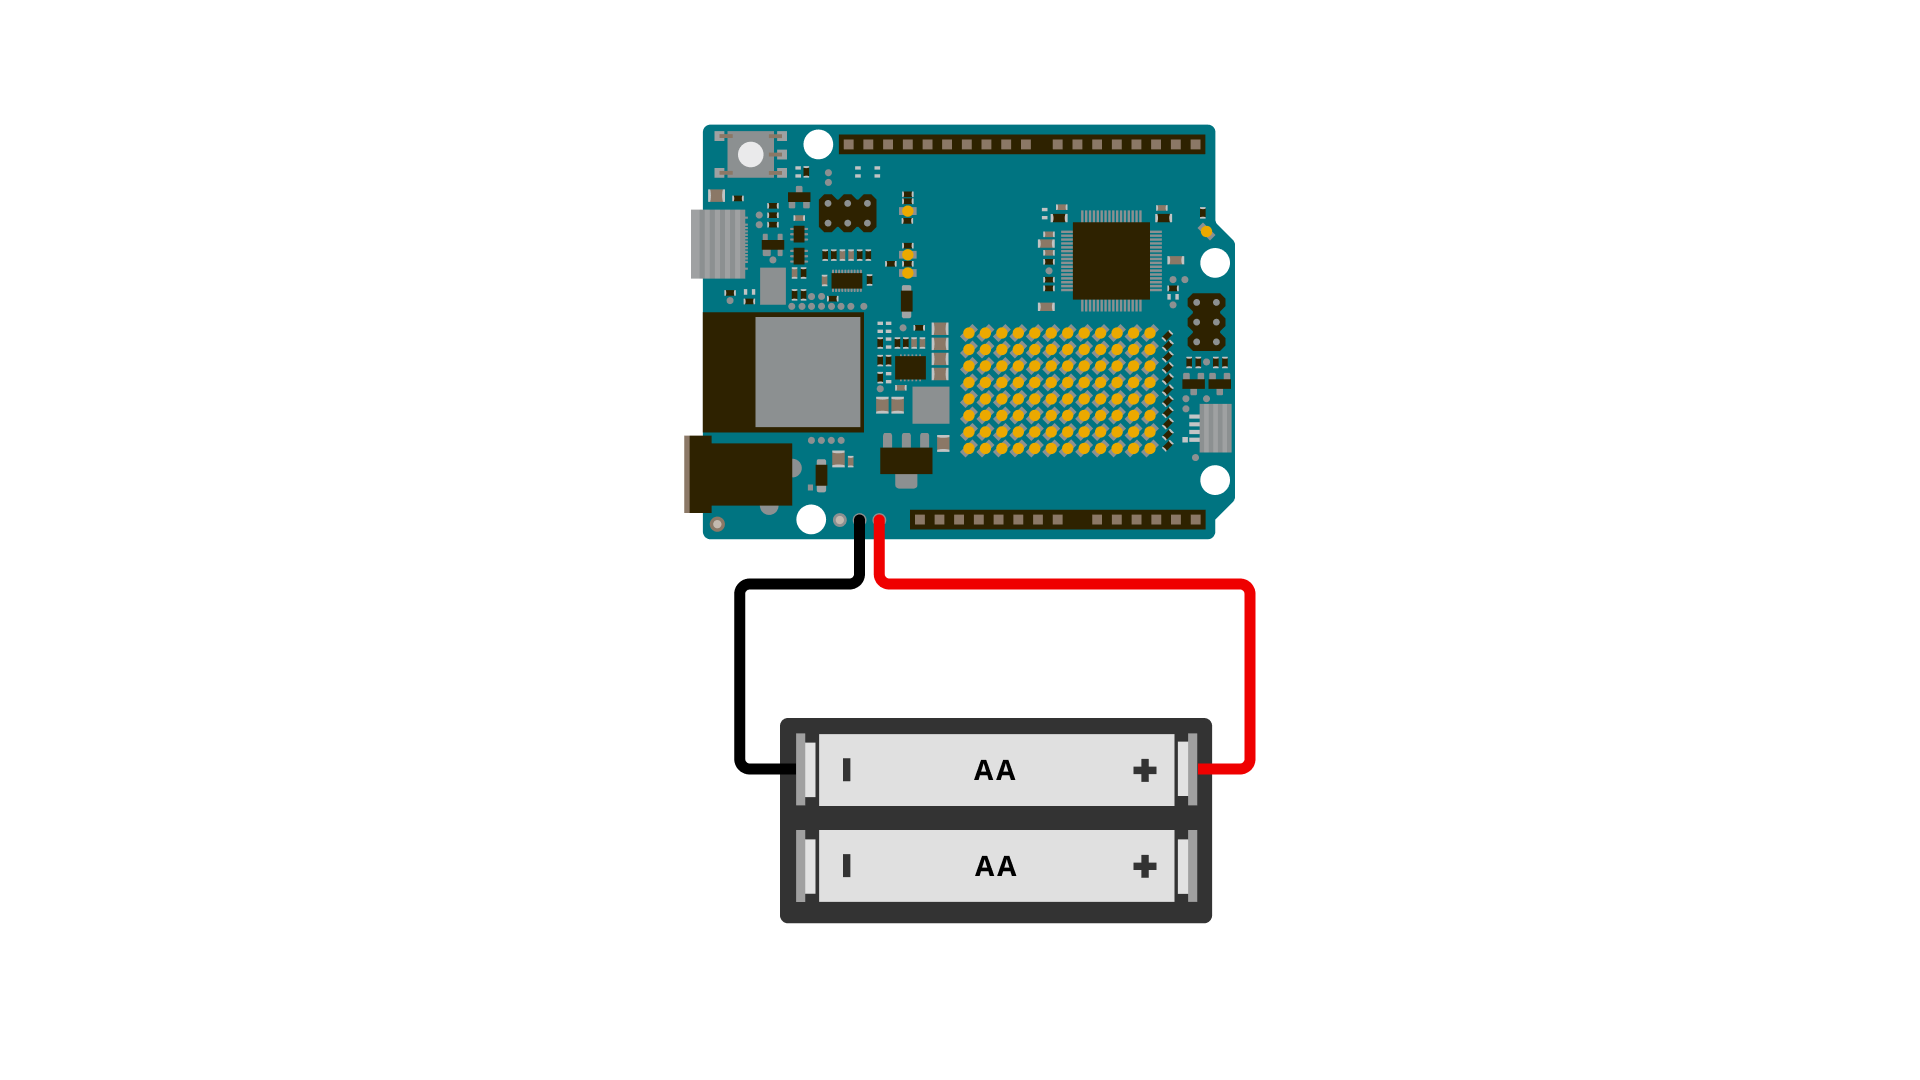
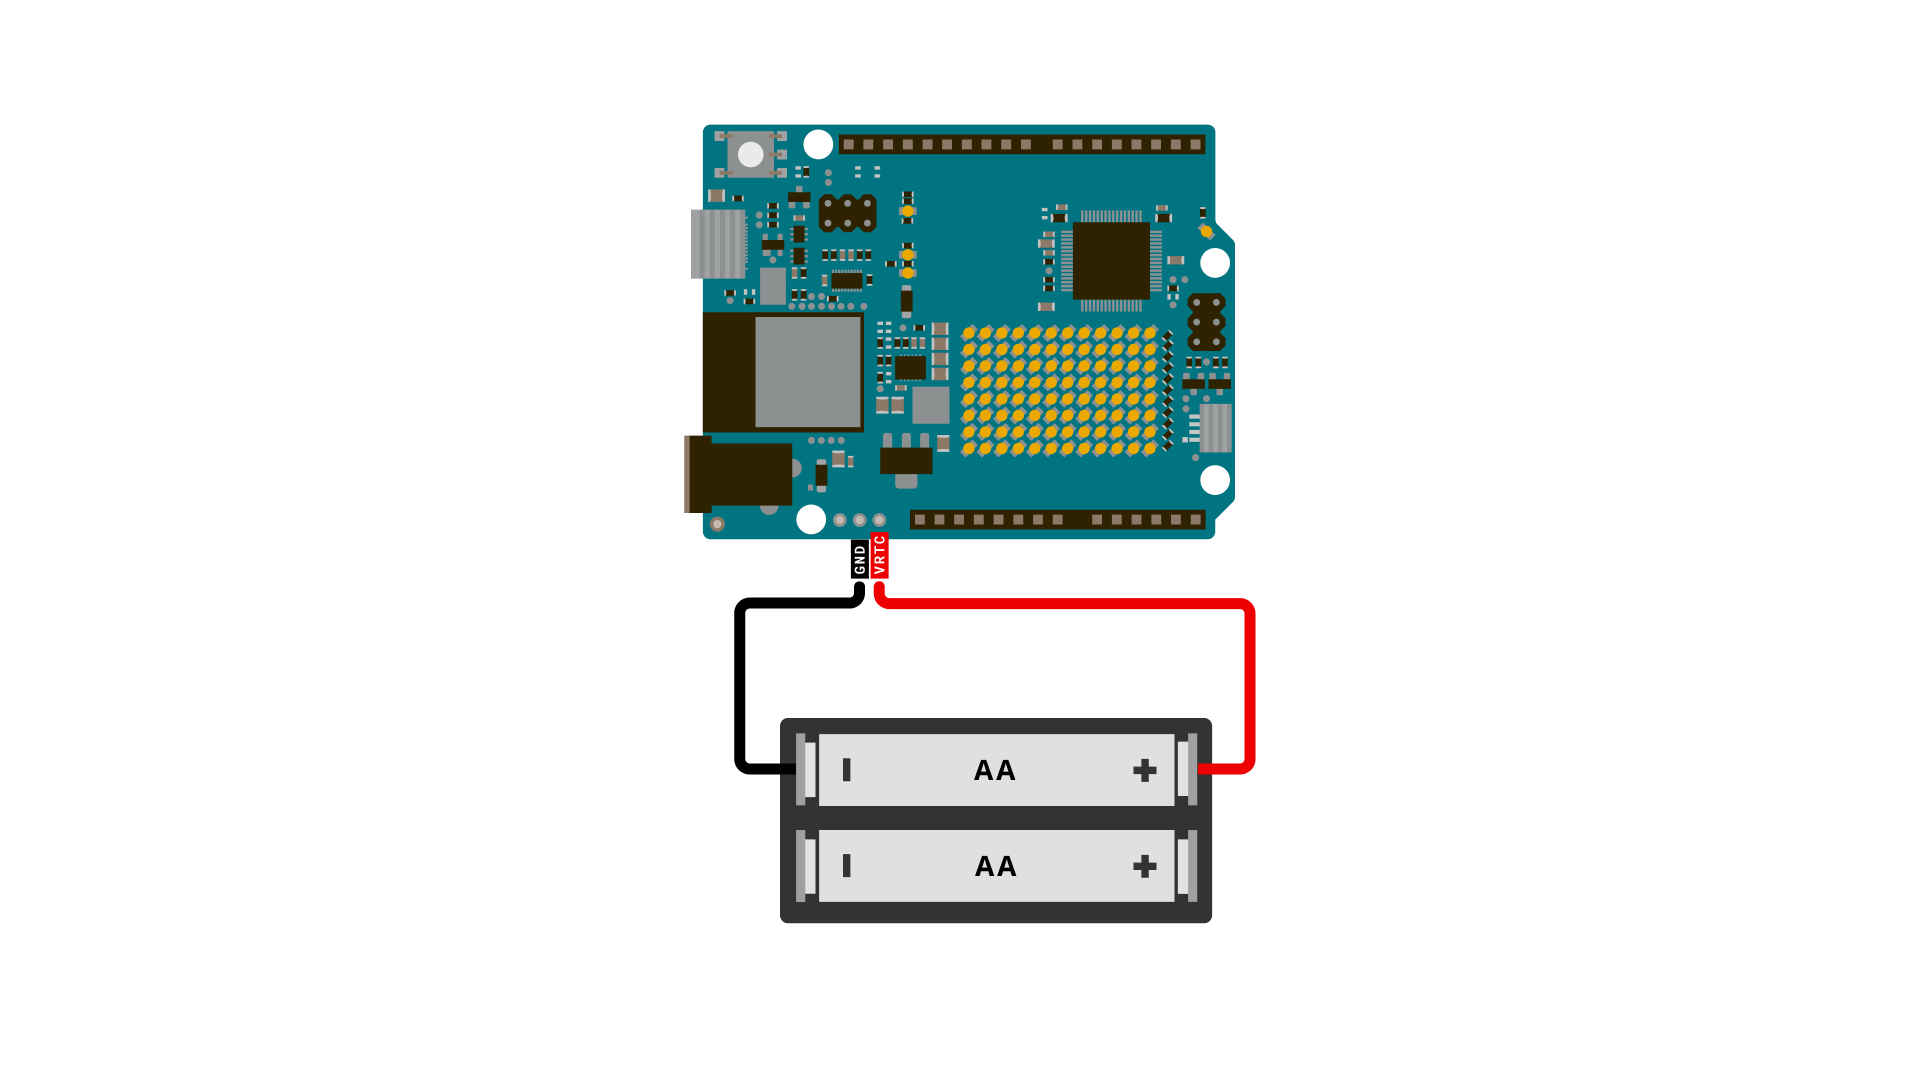
Circuit diagrams

Changed region(s): [[0.375, 0.4583, 0.6562, 0.5806]]

diff --git a/content/hardware/02.hero/boards/uno-r4-wifi/tutorials/vrtc-off/vrtc-off.md b/content/hardware/02.hero/boards/uno-r4-wifi/tutorials/vrtc-off/vrtc-off.md
@@ -42,7 +42,9 @@ The OFF pin on the Arduino UNO R4 WiFi board lets you turn the boards onboard 5 
 
 However, it will only turn off the board when it is powered through the VIN pin, or the barrel jack. Why is this? Because by using this pin, you are turning off the step down converter that generates 5 V from whatever voltage you are providing it with. If you are powering the board from USB, 5 V is provided from the USB cable, and there is no need for this step down converter to begin with. 
 
-To use the OFF pin, all you need to do is to create a short circuit from it to a GND connection. To experiment, you can do this with a jumper cable, but for your finished projects you may want to incorporate a button or switch that will turn the board on or off in this way.
+To use the OFF pin, all you need to do is to create a short circuit from it to a GND connection, like in the diagram below. To experiment, you can do this with a jumper cable, but for your finished projects you may want to incorporate a button or switch that will turn the board on or off in this way.
+
+![OFF Pin Shorted to GND](./assets/OFF.png)
 
 ## Summary
 
